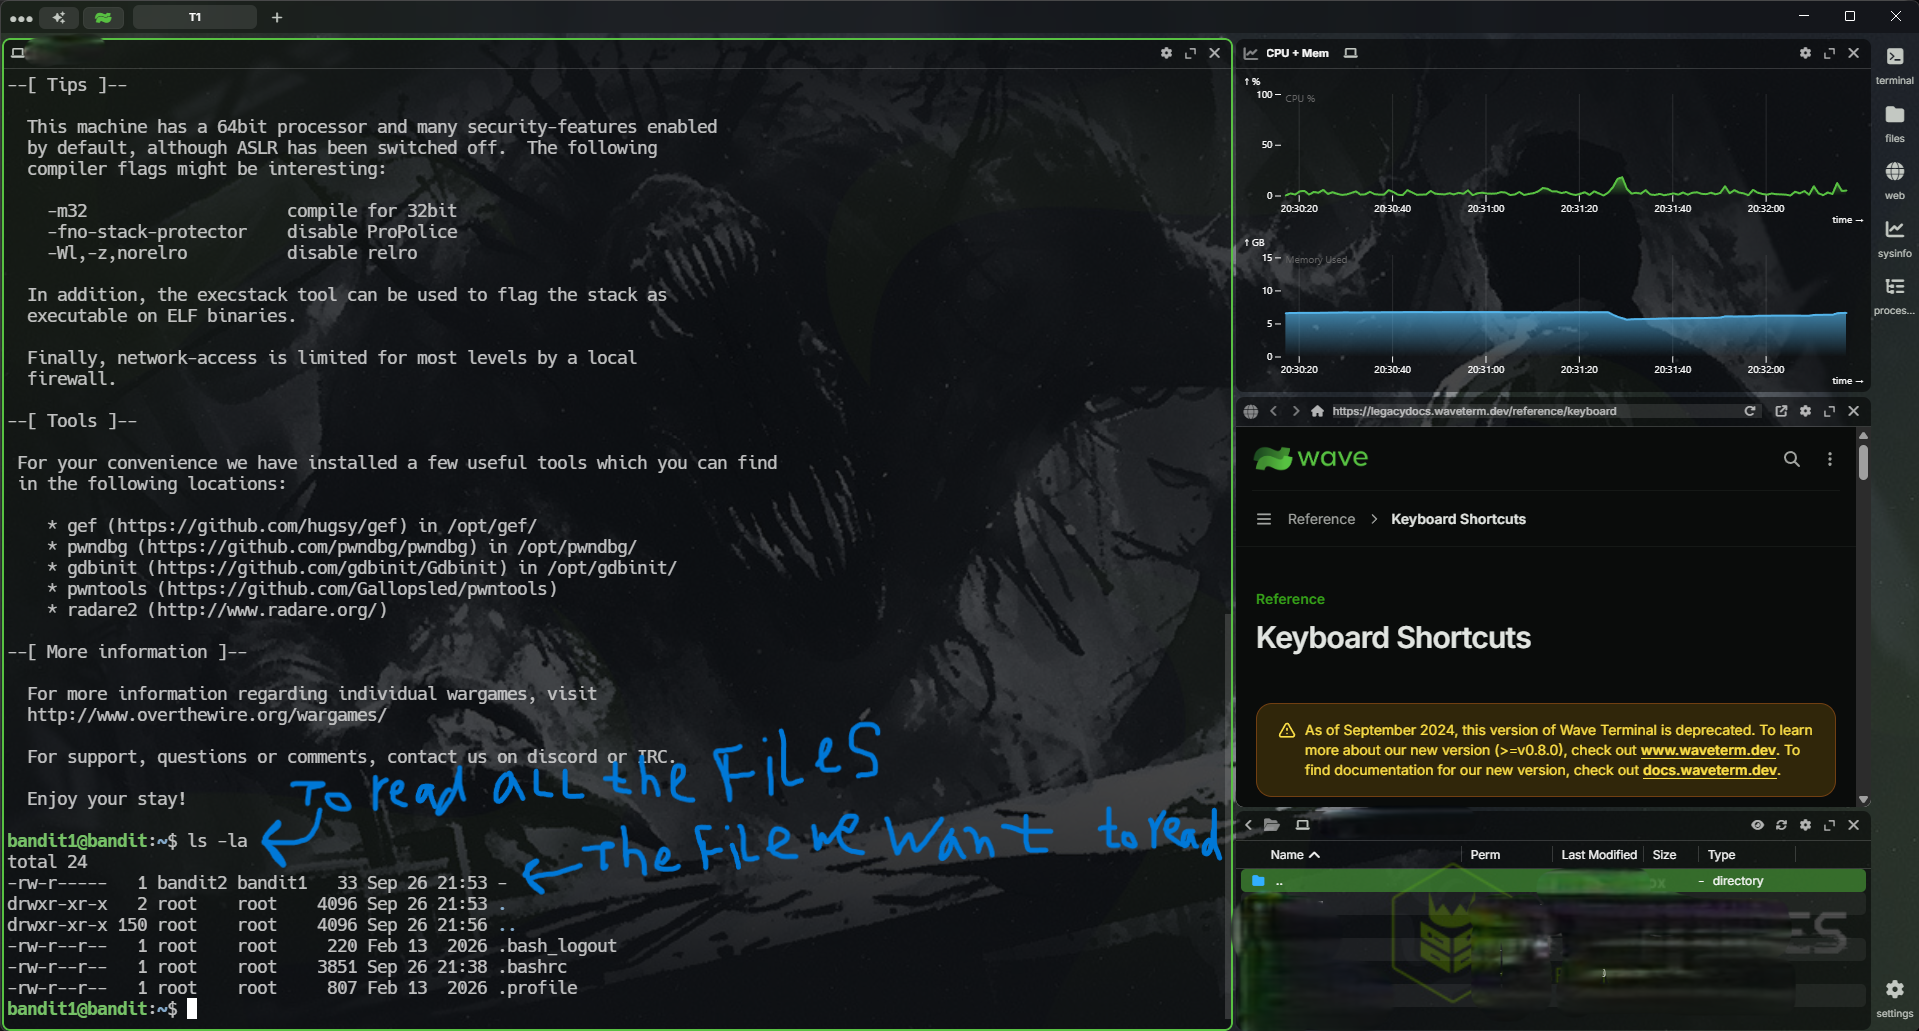
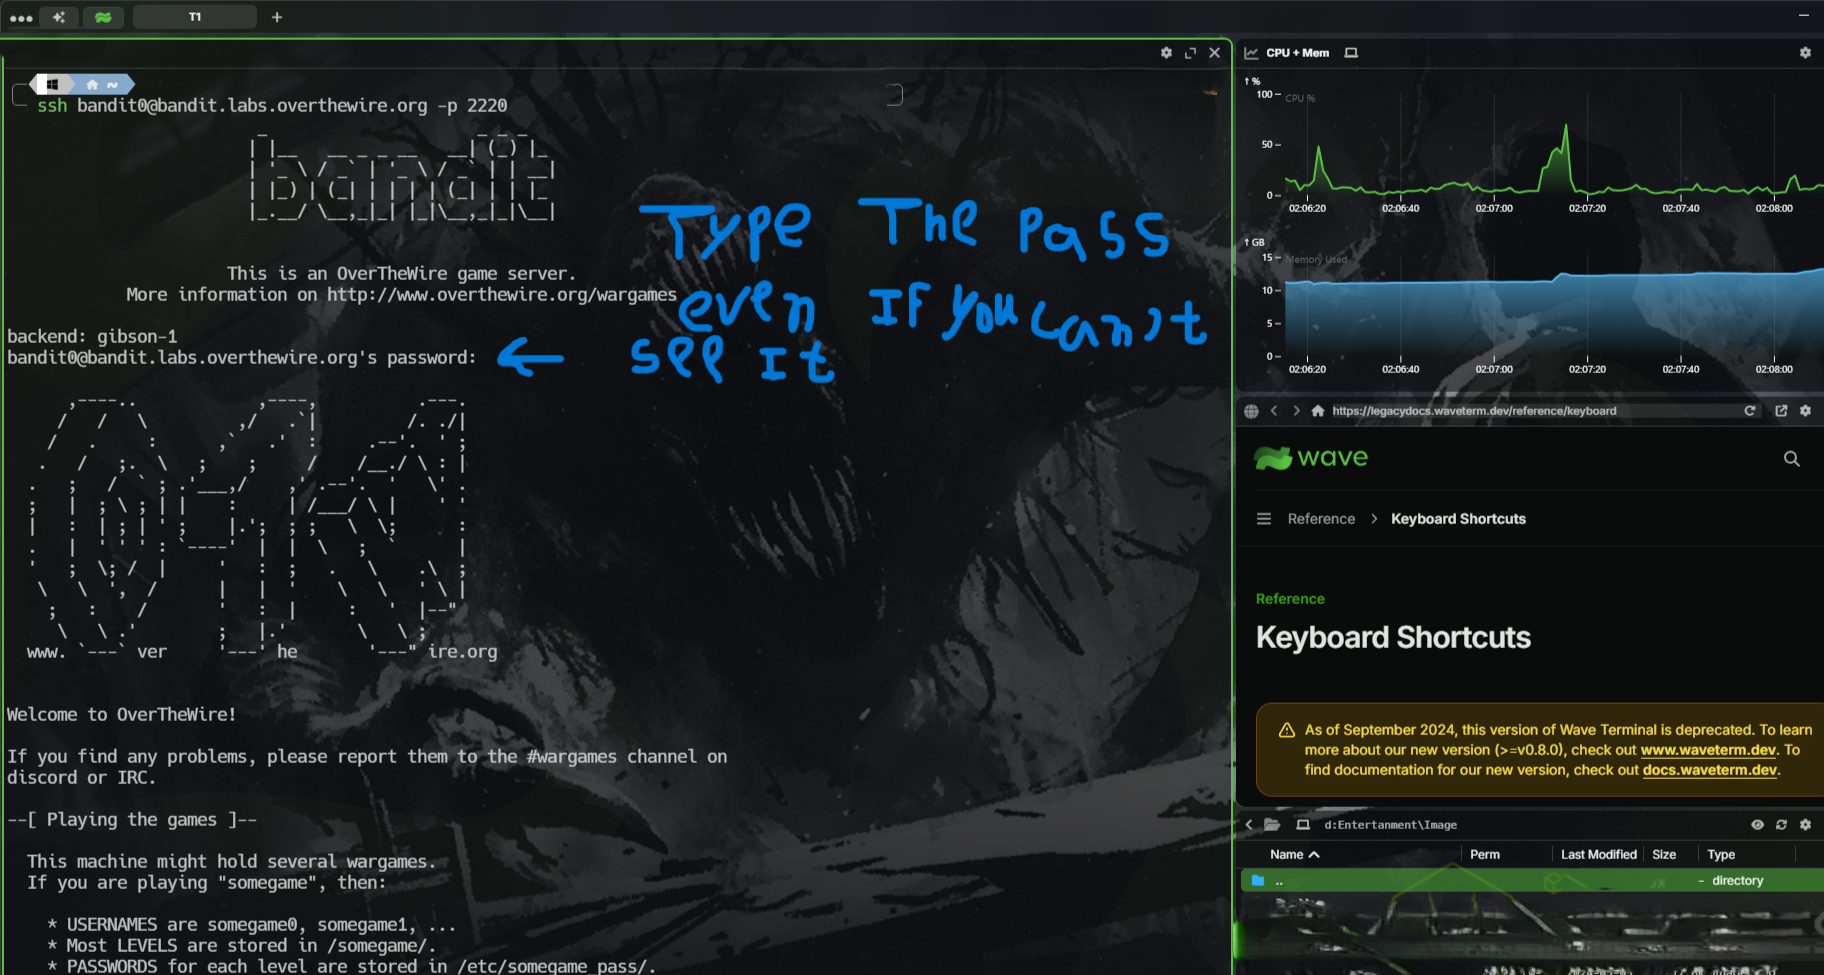
adding the photos folder

diff --git a/README.md b/README.md
@@ -17,18 +17,18 @@ This repository is part of my hands-on learning journey in cybersecurity, focusi
 ```text
 bandit-security-notes/
 ├── README.md
-└── walkthoughs/
-|    ├── level-0.md
-|    ├── level 0 -> level 1.md
-|    ├── level 1 -> level 2.md
+└── walkthroughs/
+|    ├── Level 0 → Level 1.md
+|    ├── Level 1 → Level 2.md
+|    ├── Level 2 → Level 3.md
 |    └── ...
 └── photos/
-	 ├── level 0
-	 |	 ├── level-0-part-1.png
-	 |	 ├── level-0-part-2.png
-	 |	 └── ...
 	 ├── level-0-to-1
 	 |	 ├── level-0-to-1-part-1.png
+	 |	 ├── level-0-to-1-part-2.png
+	 |	 └── ...
+	 ├── level-1-to-2
+	 |	 ├── level-1-to-2-part-1.png
 	 |	 └── ...
 	 └─── ...
 ```
@@ -119,7 +119,7 @@ Explain each command and why it works.
 
 Describe what you understood from this level and what you would do differently next time.
 
-### POC
+### Screenshots
 
 photos to prove the walkthrough in the level
 ### References
